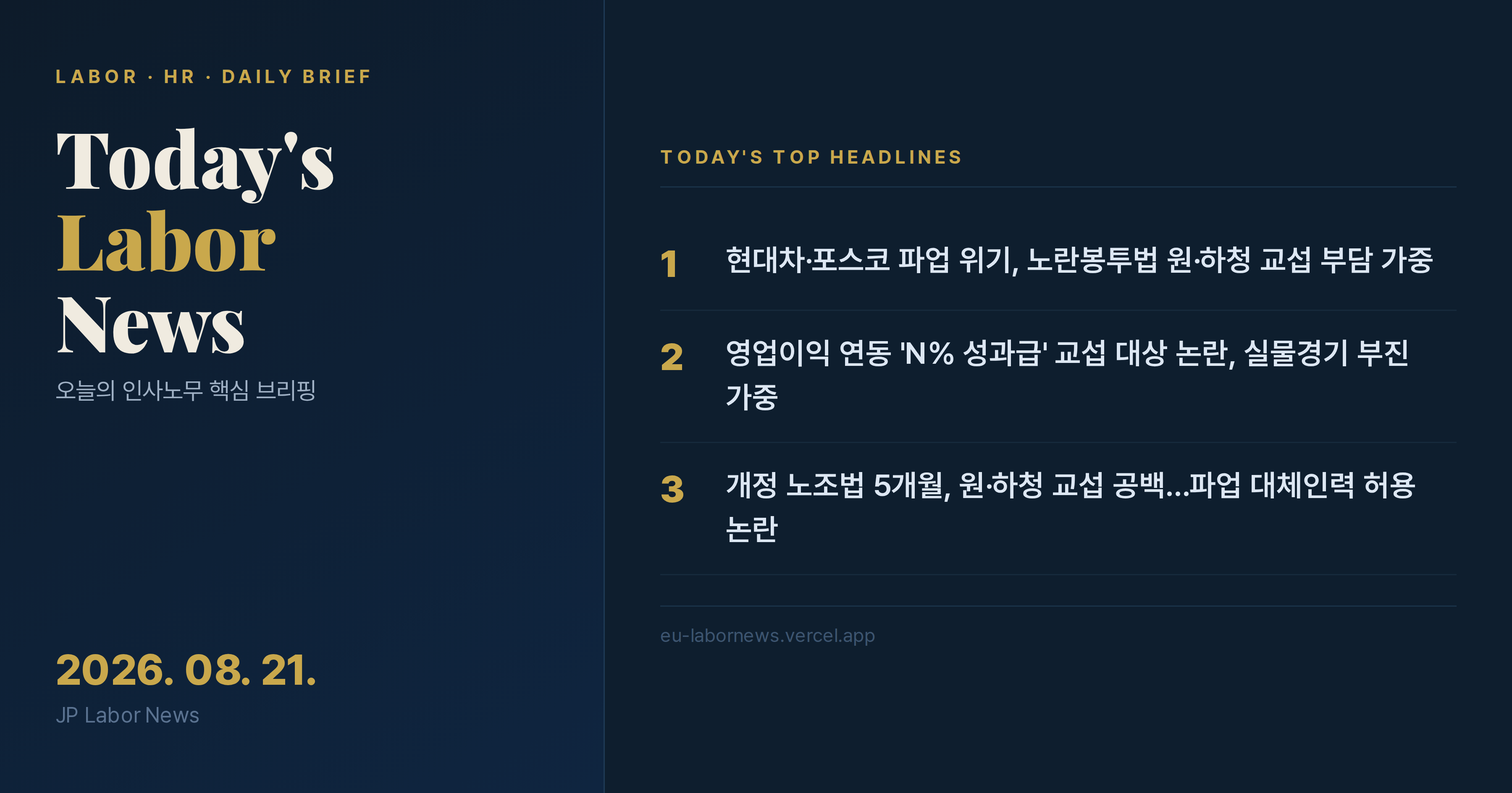
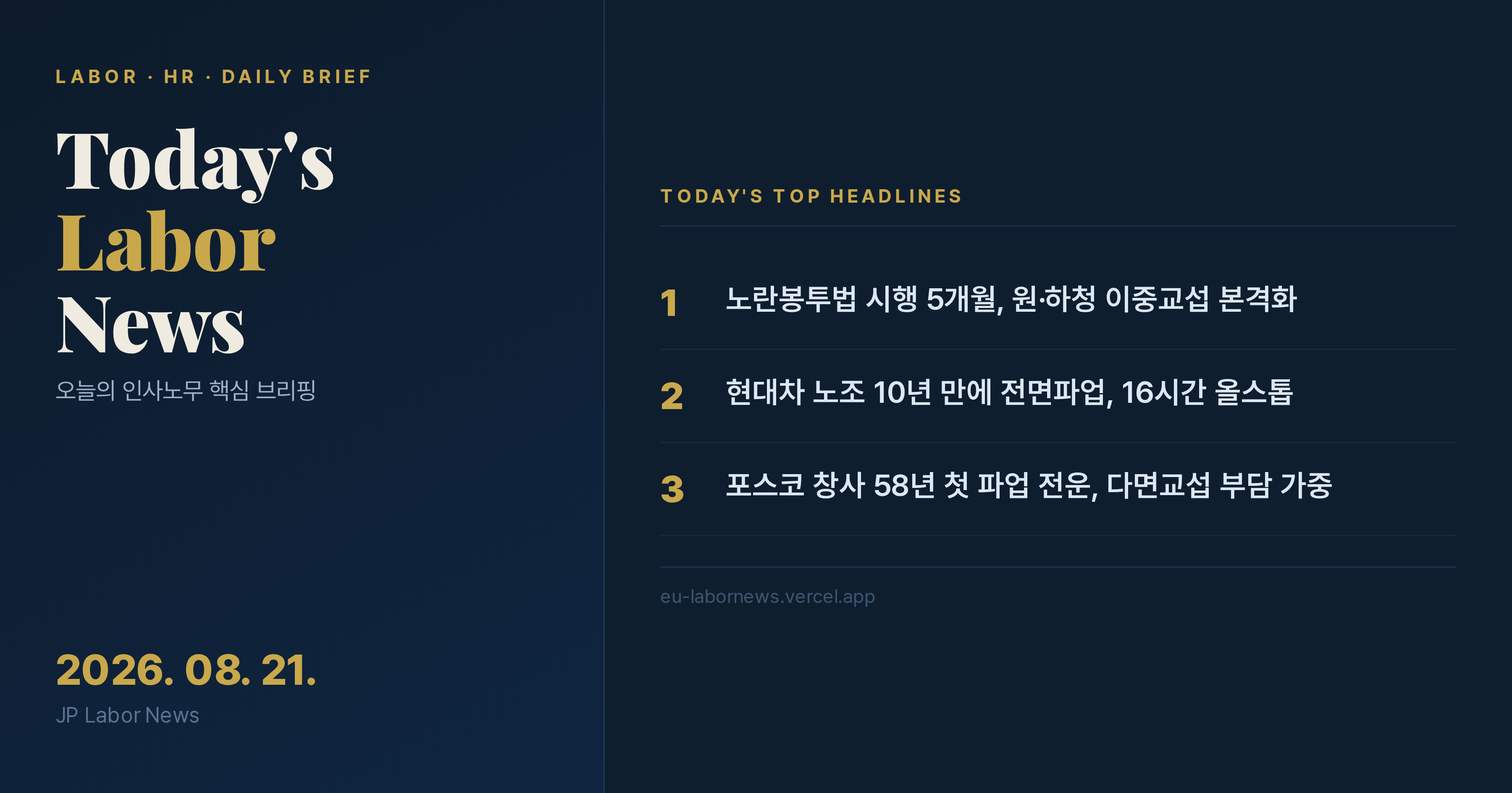
Auto: 20260820 텔레그램 카드뉴스 자동 생성

diff --git a/20260821/labornews_20260821.html b/20260821/labornews_20260821.html
@@ -93,124 +93,124 @@ body{background:var(--navy);color:var(--text-body);font-family:'Apple SD Gothic 
   <div class="headline-list"><a class="headline-item" href="#news1">
   <div class="headline-num">1</div>
   <div class="headline-content">
-    <div class="headline-source">📰 중앙일보 · 2026.08.21</div>
-    <div class="headline-title">현대차·포스코 파업 위기, 노란봉투법 원·하청 교섭 부담 가중</div>
+    <div class="headline-source">📰 동아일보 · 2026.08.21</div>
+    <div class="headline-title">노란봉투법 시행 5개월, 원·하청 이중교섭 본격화</div>
     <span class="headline-tag tag-high">🔴 핵심 이슈</span>
   </div>
 </a><a class="headline-item" href="#news2">
   <div class="headline-num">2</div>
   <div class="headline-content">
-    <div class="headline-source">📰 중앙일보 · 2026.08.21</div>
-    <div class="headline-title">영업이익 연동 'N% 성과급' 교섭 대상 논란, 실물경기 부진 가중</div>
+    <div class="headline-source">📰 노컷뉴스 · 2026.08.21</div>
+    <div class="headline-title">현대차 노조 10년 만에 전면파업, 16시간 올스톱</div>
     <span class="headline-tag tag-high">🔴 핵심 이슈</span>
   </div>
 </a><a class="headline-item" href="#news3">
   <div class="headline-num">3</div>
   <div class="headline-content">
     <div class="headline-source">📰 레이버투데이 · 2026.08.21</div>
-    <div class="headline-title">개정 노조법 5개월, 원·하청 교섭 공백…파업 대체인력 허용 논란</div>
-    <span class="headline-tag tag-high">🔴 핵심 이슈</span>
+    <div class="headline-title">포스코 창사 58년 첫 파업 전운, 다면교섭 부담 가중</div>
+    <span class="headline-tag tag-med">⚠ 주의</span>
   </div>
 </a><a class="headline-item" href="#news4">
   <div class="headline-num">4</div>
   <div class="headline-content">
-    <div class="headline-source">📰 글로벌이코노믹 · 2026.08.21</div>
-    <div class="headline-title">현대차 노조, 10년 만에 전면 파업…정년연장·성과급 교섭 결렬</div>
-    <span class="headline-tag tag-high">🔴 핵심 이슈</span>
+    <div class="headline-source">📰 레이버투데이 · 2026.08.21</div>
+    <div class="headline-title">전남지노위, 석유화학 원청 산업안전 교섭의무 인정</div>
+    <span class="headline-tag tag-med">⚠ 주의</span>
   </div>
 </a><a class="headline-item" href="#news5">
   <div class="headline-num">5</div>
   <div class="headline-content">
     <div class="headline-source">📰 레이버투데이 · 2026.08.21</div>
-    <div class="headline-title">GS건설, 종합건설사 첫 원·하청 교섭 시작…건설업 교섭 구조 변화</div>
-    <span class="headline-tag tag-med">⚠ 주요 동향</span>
+    <div class="headline-title">GS건설, 건설업 첫 원·하청 교섭 개시</div>
+    <span class="headline-tag tag-info">ℹ 참고</span>
   </div>
 </a><a class="headline-item" href="#news6">
   <div class="headline-num">6</div>
   <div class="headline-content">
-    <div class="headline-source">📰 뉴스CJ · 2026.08.20</div>
-    <div class="headline-title">네이버 노조, 8년 만에 통합교섭 전환…계열사 처우 격차 쟁점화</div>
-    <span class="headline-tag tag-med">⚠ 주요 동향</span>
+    <div class="headline-source">📰 천지일보 · 2026.08.20</div>
+    <div class="headline-title">네이버 노조 8년 만에 통합교섭, 계열사 격차 해소</div>
+    <span class="headline-tag tag-med">⚠ 주의</span>
   </div>
 </a><a class="headline-item" href="#news7">
   <div class="headline-num">7</div>
   <div class="headline-content">
-    <div class="headline-source">📰 넷통 · 2026.08.21</div>
-    <div class="headline-title">전남지노위, 석유화학 원청에 산업안전 교섭 의무 인정…재심 예고</div>
-    <span class="headline-tag tag-high">🔴 핵심 이슈</span>
+    <div class="headline-source">📰 이투데이 · 2026.08.20</div>
+    <div class="headline-title">자동차산업 노사분규 급증, 근로손실일수 123건</div>
+    <span class="headline-tag tag-info">ℹ 참고</span>
   </div>
 </a></div>
 </section>
 <div class="news-card" id="news1">
-  <div class="source-bar"><span class="source-name">📰 중앙일보</span><span class="source-date">2026.08.21</span></div>
+  <div class="source-bar"><span class="source-name">📰 동아일보</span><span class="source-date">2026.08.21</span></div>
   <div class="card-inner">
     <div class="risk-tag risk-high">🔴 핵심 이슈</div>
     <div class="card-category">노란봉투법</div>
-    <h2 class="card-title">현대차·포스코 파업 위기, 노란봉투법 원·하청 교섭 부담 가중</h2>
-    <ul class="bullet-list"><li>현대차·포스코 등 주요 제조업체 파업 위기 고조, 노란봉투법으로 원·하청 교섭 이중 부담</li><li>영업이익 연동 성과급 단체교섭 대상 논란, 노사 입장차로 협상 장기화</li><li>노동부, 영업이익 연동 성과급은 단체교섭 대상 아니라는 원칙을 시행령·시행규칙에 명확화 필요</li></ul>
-    <div class="insight"><div class="insight-label">실무 시사점</div><div class="insight-text">노란봉투법 시행 후 원·하청 교섭과 성과급 쟁점이 겹치며 제조업 노사 갈등이 심화되고 있습니다. 노동부의 명확한 지침과 교섭 전략 재점검이 시급합니다.</div></div>
+    <h2 class="card-title">노란봉투법 시행 5개월, 원·하청 이중교섭 본격화</h2>
+    <ul class="bullet-list"><li>노란봉투법 시행으로 원청기업이 하청노조와 교섭 의무 부담, 자동차·철강·조선업계 이중 하투 위기</li><li>하청업체 근로조건을 실질적으로 좌우하는 원청은 해당 사안에 대해 하청노조와 교섭 필수</li><li>현대차·포스코 등 주요 제조업체에서 원청교섭 요구 515건 중 실제 개시는 12건에 그쳐</li></ul>
+    <div class="insight"><div class="insight-label">실무 시사점</div><div class="insight-text">원청 사용자성 인정 범위가 확대되면서 교섭 부담이 급증하고 있으며, 노사 양측의 법률 다툼이 장기화될 전망입니다.</div></div>
   </div>
-  <div class="read-more"><span class="wm-small">© JP Labor News</span><a href="https://www.joongang.co.kr/article/25454991" target="_blank">자세히 보기</a></div>
+  <div class="read-more"><span class="wm-small">© JP Labor News</span><a href="https://www.donga.com/news/Economy/article/all/20260821/134516268/2" target="_blank">자세히 보기</a></div>
 </div><div class="news-card" id="news2">
-  <div class="source-bar"><span class="source-name">📰 중앙일보</span><span class="source-date">2026.08.21</span></div>
-  <div class="card-inner">
-    <div class="risk-tag risk-high">🔴 핵심 이슈</div>
-    <div class="card-category">성과급</div>
-    <h2 class="card-title">영업이익 연동 'N% 성과급' 교섭 대상 논란, 실물경기 부진 가중</h2>
-    <ul class="bullet-list"><li>영업이익 연동 성과급이 단체교섭 대상인지 여부로 주요 기업 노사 갈등 심화</li><li>노란봉투법과 친노조 정책이 실물경기 부진의 주요 원인으로 지목</li><li>국회의 노란봉투법 재개정으로 기업 이익 배분을 노동쟁의 대상에서 제외해야 한다는 주장</li></ul>
-    <div class="insight"><div class="insight-label">실무 시사점</div><div class="insight-text">성과급 교섭 대상 여부가 명확하지 않아 노사 분쟁이 확산되고 있습니다. 법적 기준 마련과 함께 성과급 제도 설계 시 교섭 범위를 사전에 명확히 해야 합니다.</div></div>
-  </div>
-  <div class="read-more"><span class="wm-small">© JP Labor News</span><a href="https://www.joongang.co.kr/article/25454986" target="_blank">자세히 보기</a></div>
-</div><div class="news-card" id="news3">
-  <div class="source-bar"><span class="source-name">📰 레이버투데이</span><span class="source-date">2026.08.21</span></div>
-  <div class="card-inner">
-    <div class="risk-tag risk-high">🔴 핵심 이슈</div>
-    <div class="card-category">원청교섭</div>
-    <h2 class="card-title">개정 노조법 5개월, 원·하청 교섭 공백…파업 대체인력 허용 논란</h2>
-    <ul class="bullet-list"><li>개정 노조법 시행 5개월 경과, 사용자성 법적 다툼으로 하청노조-원청 교섭 지연</li><li>515개 원청에 교섭 요구했으나 실제 교섭 개시는 12곳에 불과, 한화오션 등 불복소송</li><li>파업 대체인력 허용 규정으로 하청노조의 교섭력 약화 우려</li></ul>
-    <div class="insight"><div class="insight-label">실무 시사점</div><div class="insight-text">개정 노조법이 시행됐지만 원청의 사용자성 인정 범위와 교섭 절차에 대한 법적 공백이 큽니다. 교섭 의무 불이행 시 대응 매뉴얼과 법률 검토가 필수입니다.</div></div>
-  </div>
-  <div class="read-more"><span class="wm-small">© JP Labor News</span><a href="https://www.labortoday.co.kr/news/articleView.html?idxno=236338" target="_blank">자세히 보기</a></div>
-</div><div class="news-card" id="news4">
-  <div class="source-bar"><span class="source-name">📰 글로벌이코노믹</span><span class="source-date">2026.08.21</span></div>
+  <div class="source-bar"><span class="source-name">📰 노컷뉴스</span><span class="source-date">2026.08.21</span></div>
   <div class="card-inner">
     <div class="risk-tag risk-high">🔴 핵심 이슈</div>
     <div class="card-category">파업</div>
-    <h2 class="card-title">현대차 노조, 10년 만에 전면 파업…정년연장·성과급 교섭 결렬</h2>
-    <ul class="bullet-list"><li>현대차 노조, 2016년 이후 10년 만에 하루 8시간 전면 파업 돌입 (21일)</li><li>15차 교섭 결렬 후 40여 일 만에 재개했으나 정년연장·성과급 등 핵심 쟁점 입장차 지속</li><li>전 공장 16시간 올스톱, 장기화 시 생산 차질과 협력업체 연쇄 타격 우려</li></ul>
-    <div class="insight"><div class="insight-label">실무 시사점</div><div class="insight-text">현대차 10년 만의 전면 파업은 제조업 전반에 파급될 수 있습니다. 교섭 장기화 대비 생산 계획 조정과 협력사 소통 강화가 필요합니다.</div></div>
+    <h2 class="card-title">현대차 노조 10년 만에 전면파업, 16시간 올스톱</h2>
+    <ul class="bullet-list"><li>현대차 노조 21일 8시간 전면파업 돌입, 2016년 이후 10년 만에 최대 규모 쟁의행위</li><li>정년 연장·임금 인상 등 핵심 쟁점에서 16차 교섭까지 진행했으나 합의 실패</li><li>금속노조 자동차 업종 공동파업과 맞물려 부품사 파업까지 동시 진행 중</li></ul>
+    <div class="insight"><div class="insight-label">실무 시사점</div><div class="insight-text">완성차 노조의 강경 대응이 10년 만에 재현되면서 생산 차질과 협력업체 연쇄 타격이 우려됩니다.</div></div>
   </div>
-  <div class="read-more"><span class="wm-small">© JP Labor News</span><a href="https://www.globale.co.kr/news/articleView.html?idxno=39971" target="_blank">자세히 보기</a></div>
+  <div class="read-more"><span class="wm-small">© JP Labor News</span><a href="https://www.nocutnews.co.kr/news/6565782?utm_source=naver&utm_medium=article&utm_campaign=20260821080052" target="_blank">자세히 보기</a></div>
+</div><div class="news-card" id="news3">
+  <div class="source-bar"><span class="source-name">📰 레이버투데이</span><span class="source-date">2026.08.21</span></div>
+  <div class="card-inner">
+    <div class="risk-tag risk-med">⚠ 주의</div>
+    <div class="card-category">임금협상</div>
+    <h2 class="card-title">포스코 창사 58년 첫 파업 전운, 다면교섭 부담 가중</h2>
+    <ul class="bullet-list"><li>포스코 노사 임단협 결렬 조짐, 처우 개선 요구와 회사 측 입장차로 창사 첫 파업 가능성</li><li>금속노조·플랜트건설노조·금속노련 등 여러 노조와 다면교섭 진행 중</li><li>개정 노조법 시행 이후 원청 교섭 부담이 커지면서 협력사 직고용 문제도 쟁점화</li></ul>
+    <div class="insight"><div class="insight-label">실무 시사점</div><div class="insight-text">철강업계 대표 기업의 첫 파업은 포항 지역경제와 협력업체 전반에 연쇄 타격을 줄 수 있어 주의가 필요합니다.</div></div>
+  </div>
+  <div class="read-more"><span class="wm-small">© JP Labor News</span><a href="https://www.labortoday.co.kr/news/articleView.html?idxno=236347" target="_blank">자세히 보기</a></div>
+</div><div class="news-card" id="news4">
+  <div class="source-bar"><span class="source-name">📰 레이버투데이</span><span class="source-date">2026.08.21</span></div>
+  <div class="card-inner">
+    <div class="risk-tag risk-med">⚠ 주의</div>
+    <div class="card-category">노동위원회</div>
+    <h2 class="card-title">전남지노위, 석유화학 원청 산업안전 교섭의무 인정</h2>
+    <ul class="bullet-list"><li>전남지방노동위원회, 석유화학 원청기업에 산업안전 관련 단체교섭 의무 인정 판정</li><li>원청 기업들이 중앙노동위원회에 재심 신청, 사용자성 인정 범위 다툼 본격화</li><li>노동계와 경영계 간 법률 공방이 장기화되며 석유화학 업종 전반에 영향 예상</li></ul>
+    <div class="insight"><div class="insight-label">실무 시사점</div><div class="insight-text">산업안전 영역까지 원청 사용자성이 확대되면서, 화학업계 전반의 교섭 구조가 재편될 가능성이 높습니다.</div></div>
+  </div>
+  <div class="read-more"><span class="wm-small">© JP Labor News</span><a href="http://www.netongs.com/news/articleView.html?idxno=334738" target="_blank">자세히 보기</a></div>
 </div><div class="news-card" id="news5">
   <div class="source-bar"><span class="source-name">📰 레이버투데이</span><span class="source-date">2026.08.21</span></div>
   <div class="card-inner">
-    <div class="risk-tag risk-med">⚠ 주요 동향</div>
-    <div class="card-category">건설노조</div>
-    <h2 class="card-title">GS건설, 종합건설사 첫 원·하청 교섭 시작…건설업 교섭 구조 변화</h2>
-    <ul class="bullet-list"><li>GS건설, 건설업 최초로 하청 노동자(건설노조·플랜트노조)와 원청 교섭 개시</li><li>서울지방노동위 사용자성 인정 후 중노위 재심 없이 교섭요구 공고, 교섭창구 단일화 완료</li><li>86개 종합건설사 중 교섭 진입은 GS건설이 첫 사례, 건설업 노사관계 전환점</li></ul>
-    <div class="insight"><div class="insight-label">실무 시사점</div><div class="insight-text">건설업 최초 원·하청 교섭은 업계 전반에 선례가 됩니다. 건설사는 사용자성 인정 범위와 교섭 대상 의제를 사전에 명확히 검토해야 합니다.</div></div>
+    <div class="risk-tag risk-info">ℹ 참고</div>
+    <div class="card-category">건설노동</div>
+    <h2 class="card-title">GS건설, 건설업 첫 원·하청 교섭 개시</h2>
+    <ul class="bullet-list"><li>GS건설이 종합건설사 최초로 하청노동자와 원청교섭 진행, 4월 서울지노위 사용자성 인정</li><li>건설노조와 플랜트건설노조가 교섭창구 단일화 후 자율적으로 교섭대표노조 결정</li><li>3월 86개 원청 종합건설사 교섭 요구 중 GS건설이 첫 사례로 업계 주목</li></ul>
+    <div class="insight"><div class="insight-label">실무 시사점</div><div class="insight-text">건설업 최초 원청교섭 사례로, 향후 대형 건설사들의 교섭 대응 방식에 선례가 될 것입니다.</div></div>
   </div>
   <div class="read-more"><span class="wm-small">© JP Labor News</span><a href="https://www.labortoday.co.kr/news/articleView.html?idxno=236344" target="_blank">자세히 보기</a></div>
 </div><div class="news-card" id="news6">
-  <div class="source-bar"><span class="source-name">📰 뉴스CJ</span><span class="source-date">2026.08.20</span></div>
+  <div class="source-bar"><span class="source-name">📰 천지일보</span><span class="source-date">2026.08.20</span></div>
   <div class="card-inner">
-    <div class="risk-tag risk-med">⚠ 주요 동향</div>
-    <div class="card-category">IT노조</div>
-    <h2 class="card-title">네이버 노조, 8년 만에 통합교섭 전환…계열사 처우 격차 쟁점화</h2>
-    <ul class="bullet-list"><li>민주노총 화학섬유식품노조 네이버지회, 계열사별 교섭을 8년 만에 통합교섭 구조로 전환</li><li>네이버제트는 5차 교섭에서 임금 인상률 0% 제시, 노사 교섭 결렬 후 갈등 지속</li><li>IT 업계에서 계열사 간 처우 격차와 통합교섭 요구가 확산될 가능성</li></ul>
-    <div class="insight"><div class="insight-label">실무 시사점</div><div class="insight-text">IT 업계에서도 계열사 통합교섭 요구가 본격화되고 있습니다. 계열사별 임금·처우 격차 관리와 교섭 구조 설계에 대한 사전 대응이 필요합니다.</div></div>
+    <div class="risk-tag risk-med">⚠ 주의</div>
+    <div class="card-category">IT노동</div>
+    <h2 class="card-title">네이버 노조 8년 만에 통합교섭, 계열사 격차 해소</h2>
+    <ul class="bullet-list"><li>민주노총 네이버지회, 계열사별 진행하던 임금·단체교섭을 8년 만에 통합교섭으로 전환</li><li>네이버제트 사측이 6월 5차 교섭서 임금인상률 0% 제시하며 노사 교섭 결렬</li><li>계열사 간 처우 격차 문제 해소 위해 노조가 교섭 구조 개편 추진</li></ul>
+    <div class="insight"><div class="insight-label">실무 시사점</div><div class="insight-text">IT업계에서도 계열사 간 처우 격차가 쟁점화되면서, 통합교섭 방식이 확산될 가능성이 있습니다.</div></div>
   </div>
   <div class="read-more"><span class="wm-small">© JP Labor News</span><a href="https://www.newscj.com/news/articleView.html?idxno=3426666" target="_blank">자세히 보기</a></div>
 </div><div class="news-card" id="news7">
-  <div class="source-bar"><span class="source-name">📰 넷통</span><span class="source-date">2026.08.21</span></div>
+  <div class="source-bar"><span class="source-name">📰 이투데이</span><span class="source-date">2026.08.20</span></div>
   <div class="card-inner">
-    <div class="risk-tag risk-high">🔴 핵심 이슈</div>
-    <div class="card-category">사용자성</div>
-    <h2 class="card-title">전남지노위, 석유화학 원청에 산업안전 교섭 의무 인정…재심 예고</h2>
-    <ul class="bullet-list"><li>전남지방노동위원회, 석유화학 원청 기업에 하청노조와 산업안전 단체교섭 의무 인정</li><li>원청 기업들 중앙노동위 재심 신청, 사용자성 인정 범위 둘러싼 법률 다툼 본격화</li><li>노동계는 즉각 교섭 개시 촉구, 경영계는 재심과 행정소송으로 대응 예상</li></ul>
-    <div class="insight"><div class="insight-label">실무 시사점</div><div class="insight-text">산업안전을 매개로 한 원청 사용자성 인정이 확대되고 있습니다. 석유화학·제조업체는 안전보건 의제 교섭 대비와 법률 대응 전략을 점검해야 합니다.</div></div>
+    <div class="risk-tag risk-info">ℹ 참고</div>
+    <div class="card-category">노사정책</div>
+    <h2 class="card-title">자동차산업 노사분규 급증, 근로손실일수 123건</h2>
+    <ul class="bullet-list"><li>고용노동부 통계, 2025년 임금협상 과정 작업중단 123건·근로손실일수 대폭 증가</li><li>일부 자동차기업 5월부터 교섭 장기화, 반복 파업·특근 거부로 대규모 생산 차질</li><li>내우외환 상황 속 자동차산업 노사 안정이 절실하다는 업계·정부 공통 인식</li></ul>
+    <div class="insight"><div class="insight-label">실무 시사점</div><div class="insight-text">임금협상 장기화와 반복 파업이 제조업 전반의 생산성 저하로 이어지고 있어, 노사 조기 타결 분위기 조성이 시급합니다.</div></div>
   </div>
-  <div class="read-more"><span class="wm-small">© JP Labor News</span><a href="http://www.netongs.com/news/articleView.html?idxno=334738" target="_blank">자세히 보기</a></div>
+  <div class="read-more"><span class="wm-small">© JP Labor News</span><a href="https://www.etoday.co.kr/news/view/2616099" target="_blank">자세히 보기</a></div>
 </div>
 
 <!-- ── 공유 바: 마지막 카드 아래, 푸터 위 ── -->

diff --git a/20260821/send_20260821.html b/20260821/send_20260821.html
@@ -7,8 +7,8 @@
   <div class="icon">📨</div>
   <div class="title">오늘의 카드뉴스 발송</div>
   <div class="date">2026. 08. 21. 금요일</div>
-  <div class="news-list"><div class="news-list-title">오늘의 헤드라인</div><div class="news-item"><span class="news-num">1</span>현대차·포스코 파업 위기, 노란봉투법 원·하청 교섭 부담 가중</div><div class="news-item"><span class="news-num">2</span>영업이익 연동 'N% 성과급' 교섭 대상 논란, 실물경기 부진 가중</div><div class="news-item"><span class="news-num">3</span>개정 노조법 5개월, 원·하청 교섭 공백…파업 대체인력 허용 논란</div><div class="news-item"><span class="news-num">4</span>현대차 노조, 10년 만에 전면 파업…정년연장·성과급 교섭 결렬</div><div class="news-item"><span class="news-num">5</span>GS건설, 종합건설사 첫 원·하청 교섭 시작…건설업 교섭 구조 변화</div><div class="news-item"><span class="news-num">6</span>네이버 노조, 8년 만에 통합교섭 전환…계열사 처우 격차 쟁점화</div><div class="news-item"><span class="news-num">7</span>전남지노위, 석유화학 원청에 산업안전 교섭 의무 인정…재심 예고</div></div>
-  <a class="btn" href="https://api.telegram.org/bot8410721070:AAFmLPGoM39IsMYuIqr7Hbga-vi9gD2hBqk/sendPhoto?chat_id=%40jplabornews&photo=https%3A//eu-labornews.vercel.app/thumbnail_telegram.png%3Fv%3D20260821&caption=%F0%9F%93%8B%20%EC%98%A4%EB%8A%98%EC%9D%98%20%EC%9D%B8%EC%82%AC%EB%85%B8%EB%AC%B4%20%EB%B8%8C%EB%A6%AC%ED%95%91%20%E2%80%94%202026.%2008.%2021.%20%28%EA%B8%88%29%0A%0A1%EF%B8%8F%E2%83%A3%20%ED%98%84%EB%8C%80%EC%B0%A8%C2%B7%ED%8F%AC%EC%8A%A4%EC%BD%94%20%ED%8C%8C%EC%97%85%20%EC%9C%84%EA%B8%B0%2C%20%EB%85%B8%EB%9E%80%EB%B4%89%ED%88%AC%EB%B2%95%20%EC%9B%90%C2%B7%ED%95%98%EC%B2%AD%20%EA%B5%90%EC%84%AD%20%EB%B6%80%EB%8B%B4%20%EA%B0%80%EC%A4%91%0A2%EF%B8%8F%E2%83%A3%20%EC%98%81%EC%97%85%EC%9D%B4%EC%9D%B5%20%EC%97%B0%EB%8F%99%20%27N%25%20%EC%84%B1%EA%B3%BC%EA%B8%89%27%20%EA%B5%90%EC%84%AD%20%EB%8C%80%EC%83%81%20%EB%85%BC%EB%9E%80%2C%20%EC%8B%A4%EB%AC%BC%EA%B2%BD%EA%B8%B0%20%EB%B6%80%EC%A7%84%20%EA%B0%80%EC%A4%91%0A3%EF%B8%8F%E2%83%A3%20%EA%B0%9C%EC%A0%95%20%EB%85%B8%EC%A1%B0%EB%B2%95%205%EA%B0%9C%EC%9B%94%2C%20%EC%9B%90%C2%B7%ED%95%98%EC%B2%AD%20%EA%B5%90%EC%84%AD%20%EA%B3%B5%EB%B0%B1%E2%80%A6%ED%8C%8C%EC%97%85%20%EB%8C%80%EC%B2%B4%EC%9D%B8%EB%A0%A5%20%ED%97%88%EC%9A%A9%20%EB%85%BC%EB%9E%80%0A4%EF%B8%8F%E2%83%A3%20%ED%98%84%EB%8C%80%EC%B0%A8%20%EB%85%B8%EC%A1%B0%2C%2010%EB%85%84%20%EB%A7%8C%EC%97%90%20%EC%A0%84%EB%A9%B4%20%ED%8C%8C%EC%97%85%E2%80%A6%EC%A0%95%EB%85%84%EC%97%B0%EC%9E%A5%C2%B7%EC%84%B1%EA%B3%BC%EA%B8%89%20%EA%B5%90%EC%84%AD%20%EA%B2%B0%EB%A0%AC%0A5%EF%B8%8F%E2%83%A3%20GS%EA%B1%B4%EC%84%A4%2C%20%EC%A2%85%ED%95%A9%EA%B1%B4%EC%84%A4%EC%82%AC%20%EC%B2%AB%20%EC%9B%90%C2%B7%ED%95%98%EC%B2%AD%20%EA%B5%90%EC%84%AD%20%EC%8B%9C%EC%9E%91%E2%80%A6%EA%B1%B4%EC%84%A4%EC%97%85%20%EA%B5%90%EC%84%AD%20%EA%B5%AC%EC%A1%B0%20%EB%B3%80%ED%99%94%0A6%EF%B8%8F%E2%83%A3%20%EB%84%A4%EC%9D%B4%EB%B2%84%20%EB%85%B8%EC%A1%B0%2C%208%EB%85%84%20%EB%A7%8C%EC%97%90%20%ED%86%B5%ED%95%A9%EA%B5%90%EC%84%AD%20%EC%A0%84%ED%99%98%E2%80%A6%EA%B3%84%EC%97%B4%EC%82%AC%20%EC%B2%98%EC%9A%B0%20%EA%B2%A9%EC%B0%A8%20%EC%9F%81%EC%A0%90%ED%99%94%0A7%EF%B8%8F%E2%83%A3%20%EC%A0%84%EB%82%A8%EC%A7%80%EB%85%B8%EC%9C%84%2C%20%EC%84%9D%EC%9C%A0%ED%99%94%ED%95%99%20%EC%9B%90%EC%B2%AD%EC%97%90%20%EC%82%B0%EC%97%85%EC%95%88%EC%A0%84%20%EA%B5%90%EC%84%AD%20%EC%9D%98%EB%AC%B4%20%EC%9D%B8%EC%A0%95%E2%80%A6%EC%9E%AC%EC%8B%AC%20%EC%98%88%EA%B3%A0%0A%0A%F0%9F%94%97%20%EC%A0%84%EC%B2%B4%20%EC%B9%B4%EB%93%9C%EB%89%B4%EC%8A%A4%3A%0Ahttps%3A//eu-labornews.vercel.app/20260821/labornews_20260821.html" target="_blank">📲 텔레그램으로 발송하기</a>
+  <div class="news-list"><div class="news-list-title">오늘의 헤드라인</div><div class="news-item"><span class="news-num">1</span>노란봉투법 시행 5개월, 원·하청 이중교섭 본격화</div><div class="news-item"><span class="news-num">2</span>현대차 노조 10년 만에 전면파업, 16시간 올스톱</div><div class="news-item"><span class="news-num">3</span>포스코 창사 58년 첫 파업 전운, 다면교섭 부담 가중</div><div class="news-item"><span class="news-num">4</span>전남지노위, 석유화학 원청 산업안전 교섭의무 인정</div><div class="news-item"><span class="news-num">5</span>GS건설, 건설업 첫 원·하청 교섭 개시</div><div class="news-item"><span class="news-num">6</span>네이버 노조 8년 만에 통합교섭, 계열사 격차 해소</div><div class="news-item"><span class="news-num">7</span>자동차산업 노사분규 급증, 근로손실일수 123건</div></div>
+  <a class="btn" href="https://api.telegram.org/bot8410721070:AAFmLPGoM39IsMYuIqr7Hbga-vi9gD2hBqk/sendPhoto?chat_id=%40jplabornews&photo=https%3A//eu-labornews.vercel.app/thumbnail_telegram.png%3Fv%3D20260821&caption=%F0%9F%93%8B%20%EC%98%A4%EB%8A%98%EC%9D%98%20%EC%9D%B8%EC%82%AC%EB%85%B8%EB%AC%B4%20%EB%B8%8C%EB%A6%AC%ED%95%91%20%E2%80%94%202026.%2008.%2021.%20%28%EA%B8%88%29%0A%0A1%EF%B8%8F%E2%83%A3%20%EB%85%B8%EB%9E%80%EB%B4%89%ED%88%AC%EB%B2%95%20%EC%8B%9C%ED%96%89%205%EA%B0%9C%EC%9B%94%2C%20%EC%9B%90%C2%B7%ED%95%98%EC%B2%AD%20%EC%9D%B4%EC%A4%91%EA%B5%90%EC%84%AD%20%EB%B3%B8%EA%B2%A9%ED%99%94%0A2%EF%B8%8F%E2%83%A3%20%ED%98%84%EB%8C%80%EC%B0%A8%20%EB%85%B8%EC%A1%B0%2010%EB%85%84%20%EB%A7%8C%EC%97%90%20%EC%A0%84%EB%A9%B4%ED%8C%8C%EC%97%85%2C%2016%EC%8B%9C%EA%B0%84%20%EC%98%AC%EC%8A%A4%ED%86%B1%0A3%EF%B8%8F%E2%83%A3%20%ED%8F%AC%EC%8A%A4%EC%BD%94%20%EC%B0%BD%EC%82%AC%2058%EB%85%84%20%EC%B2%AB%20%ED%8C%8C%EC%97%85%20%EC%A0%84%EC%9A%B4%2C%20%EB%8B%A4%EB%A9%B4%EA%B5%90%EC%84%AD%20%EB%B6%80%EB%8B%B4%20%EA%B0%80%EC%A4%91%0A4%EF%B8%8F%E2%83%A3%20%EC%A0%84%EB%82%A8%EC%A7%80%EB%85%B8%EC%9C%84%2C%20%EC%84%9D%EC%9C%A0%ED%99%94%ED%95%99%20%EC%9B%90%EC%B2%AD%20%EC%82%B0%EC%97%85%EC%95%88%EC%A0%84%20%EA%B5%90%EC%84%AD%EC%9D%98%EB%AC%B4%20%EC%9D%B8%EC%A0%95%0A5%EF%B8%8F%E2%83%A3%20GS%EA%B1%B4%EC%84%A4%2C%20%EA%B1%B4%EC%84%A4%EC%97%85%20%EC%B2%AB%20%EC%9B%90%C2%B7%ED%95%98%EC%B2%AD%20%EA%B5%90%EC%84%AD%20%EA%B0%9C%EC%8B%9C%0A6%EF%B8%8F%E2%83%A3%20%EB%84%A4%EC%9D%B4%EB%B2%84%20%EB%85%B8%EC%A1%B0%208%EB%85%84%20%EB%A7%8C%EC%97%90%20%ED%86%B5%ED%95%A9%EA%B5%90%EC%84%AD%2C%20%EA%B3%84%EC%97%B4%EC%82%AC%20%EA%B2%A9%EC%B0%A8%20%ED%95%B4%EC%86%8C%0A7%EF%B8%8F%E2%83%A3%20%EC%9E%90%EB%8F%99%EC%B0%A8%EC%82%B0%EC%97%85%20%EB%85%B8%EC%82%AC%EB%B6%84%EA%B7%9C%20%EA%B8%89%EC%A6%9D%2C%20%EA%B7%BC%EB%A1%9C%EC%86%90%EC%8B%A4%EC%9D%BC%EC%88%98%20123%EA%B1%B4%0A%0A%F0%9F%94%97%20%EC%A0%84%EC%B2%B4%20%EC%B9%B4%EB%93%9C%EB%89%B4%EC%8A%A4%3A%0Ahttps%3A//eu-labornews.vercel.app/20260821/labornews_20260821.html" target="_blank">📲 텔레그램으로 발송하기</a>
   <a class="btn-view" href="https://eu-labornews.vercel.app/20260821/labornews_20260821.html" target="_blank">전체 카드뉴스 보기</a>
   <div class="notice">버튼을 클릭하면 텔레그램으로<br>헤드라인과 카드뉴스 링크가 전송됩니다.</div>
 </div></body>
